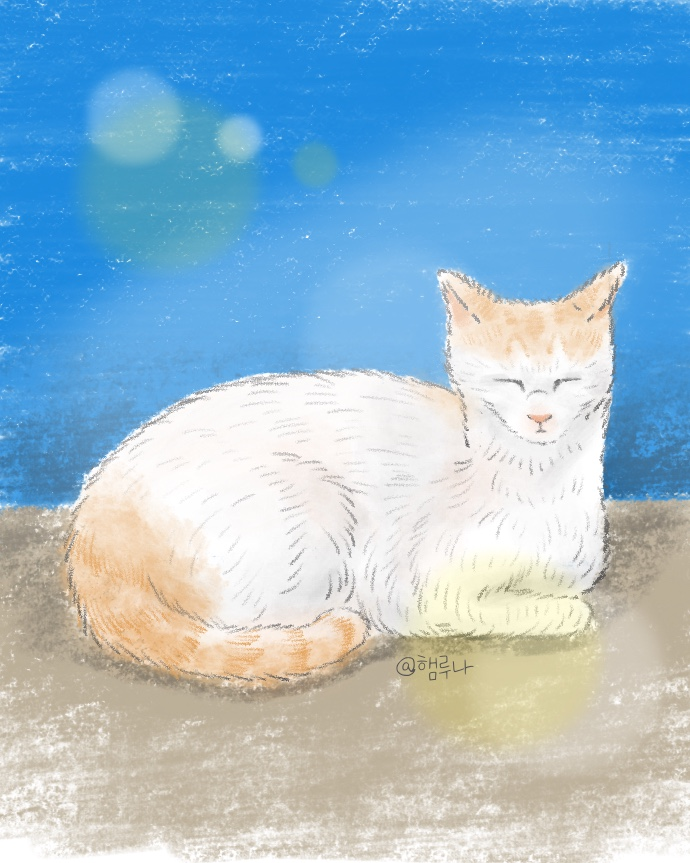
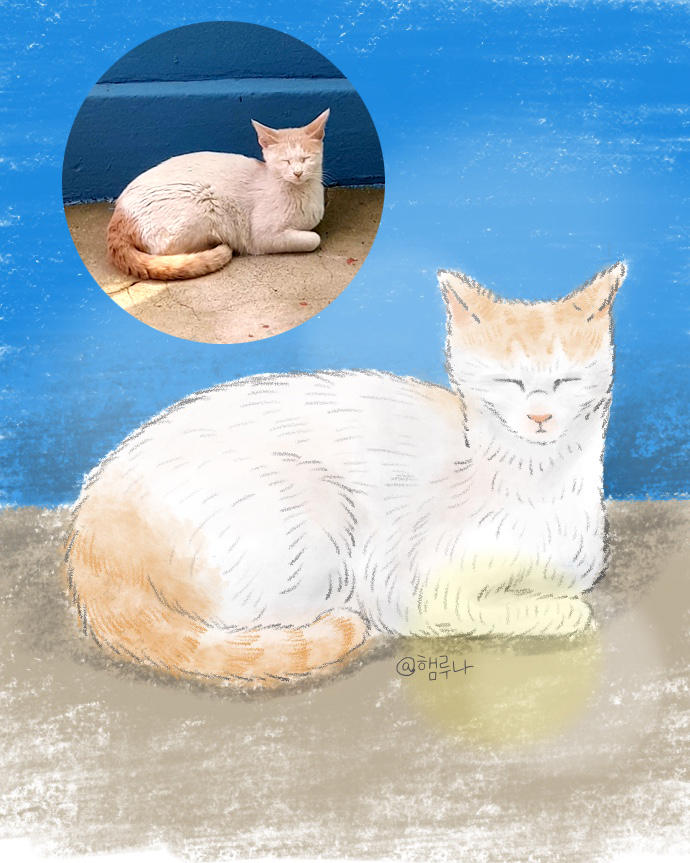
이미지,헤더 수정

Changed region(s): [[0.0913, 0.0, 0.5783, 0.4218]]

diff --git a/proc.html b/proc.html
@@ -13,8 +13,7 @@
     
     <!--파비콘-->
     <link rel="icon" href="favicon.png" type="image/png">
-    
-        
+       
     <body>
         <div id="wrap">
             <!--헤더 고정-->
@@ -28,18 +27,13 @@
                 </script>
             </div>
 
-
             <!--맨 위로 버튼-->
             <button id="topBtn" title="맨 위로">
             TOP
             </button>
 
 
-            <header id="header">
-                <h1 class="logo"></h1>
-                <nav class="nav"></nav>
 
-            </header>
 
 
             <article id="slider">
@@ -49,23 +43,12 @@
                 <div class="image-box1">
                     <p>│ 고양이 일러스트</p>
                 </div>
+                <br>
 
-                        <div class="image-row">
-                            <img src="images/proc_01.jpg" style="width:595px" alt="1">
-                            <img src="images/proc_02.JPG" style="width:595px" alt="2">
-                            
-                        </div>
-                            <img src="images/proc_03.JPG" style="width:800px;" alt="3">
-
-
-                        
-
-                        <div class="image-row">
-                            <img src="images/proc_04.jpg" style="width:595px" alt="4">
-                            <img src="images/proc_05.JPG" style="width:595px" alt="5">
-                        </div>
-
-                    <img src="images/proc_06.PNG" style="width:600px" alt="6">
+          
+                    <img src="images/proc_03.JPG" style="width:800px;" alt="3">
+                    <br>
+                    <img src="images/proc_05.JPG" style="width:595px" alt="5">
 
                     <div class="image-row">
                         <img src="images/proc_07.JPG" style="width:595px" alt="7">
